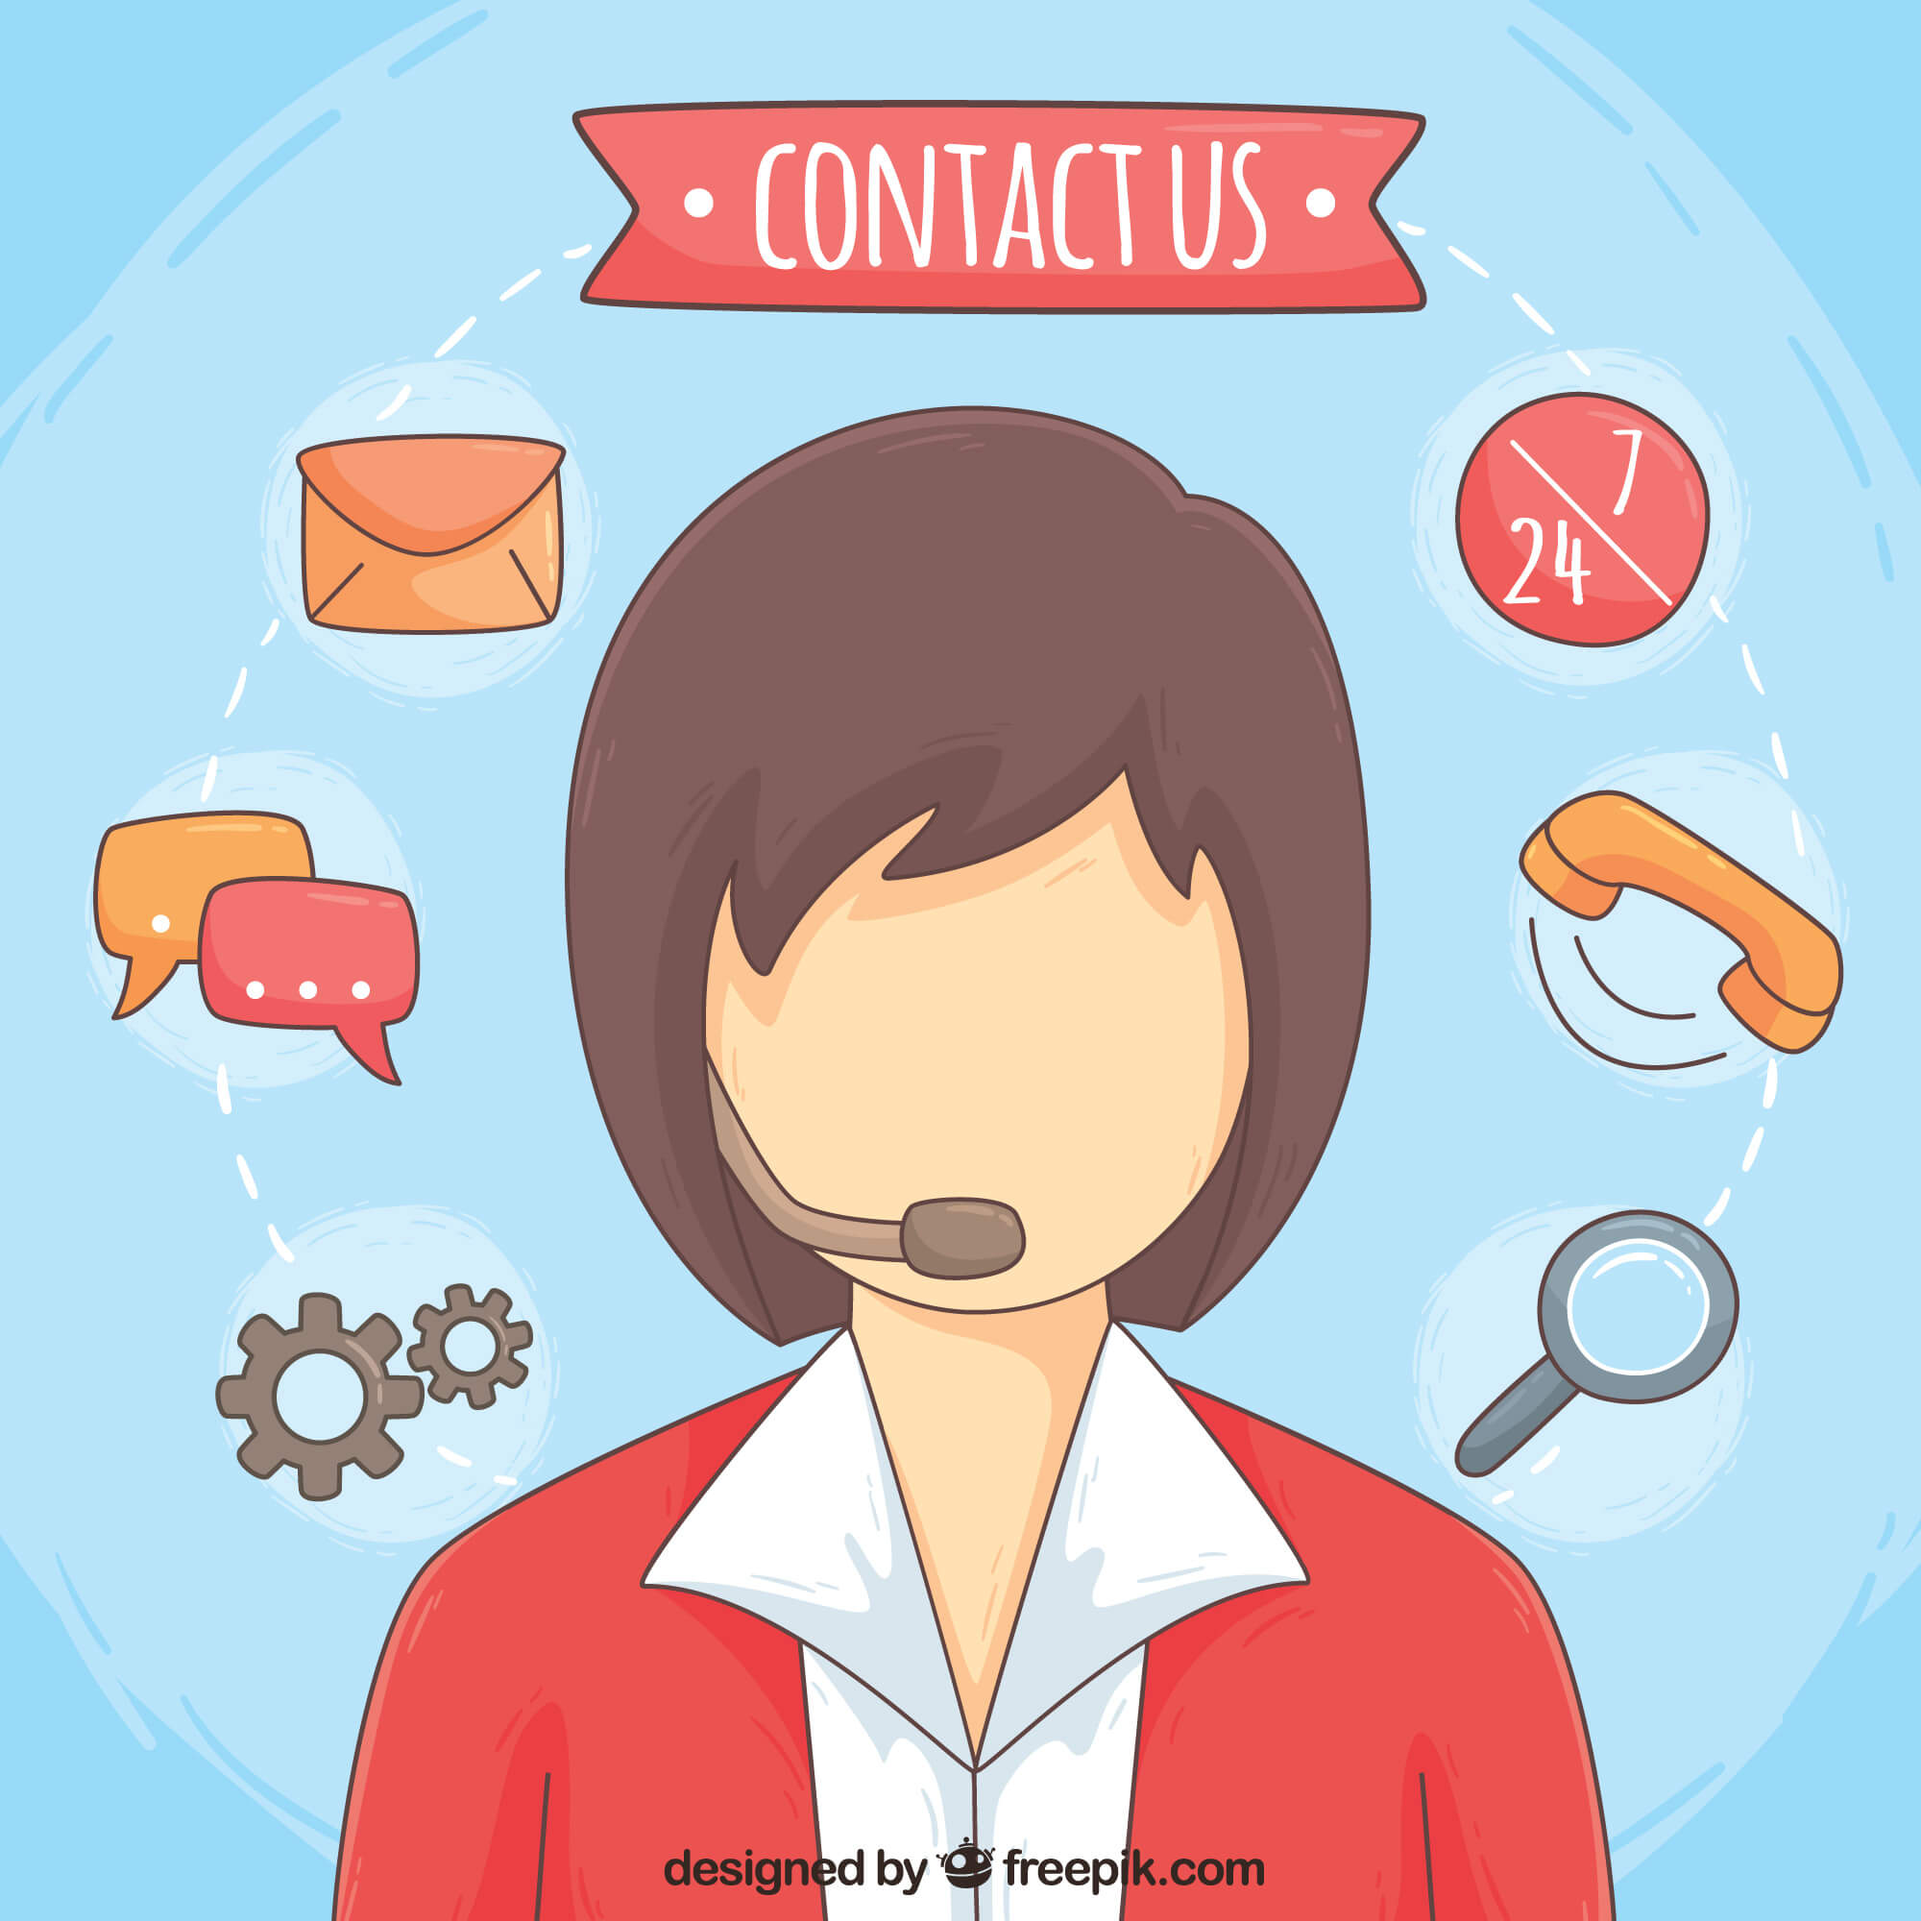
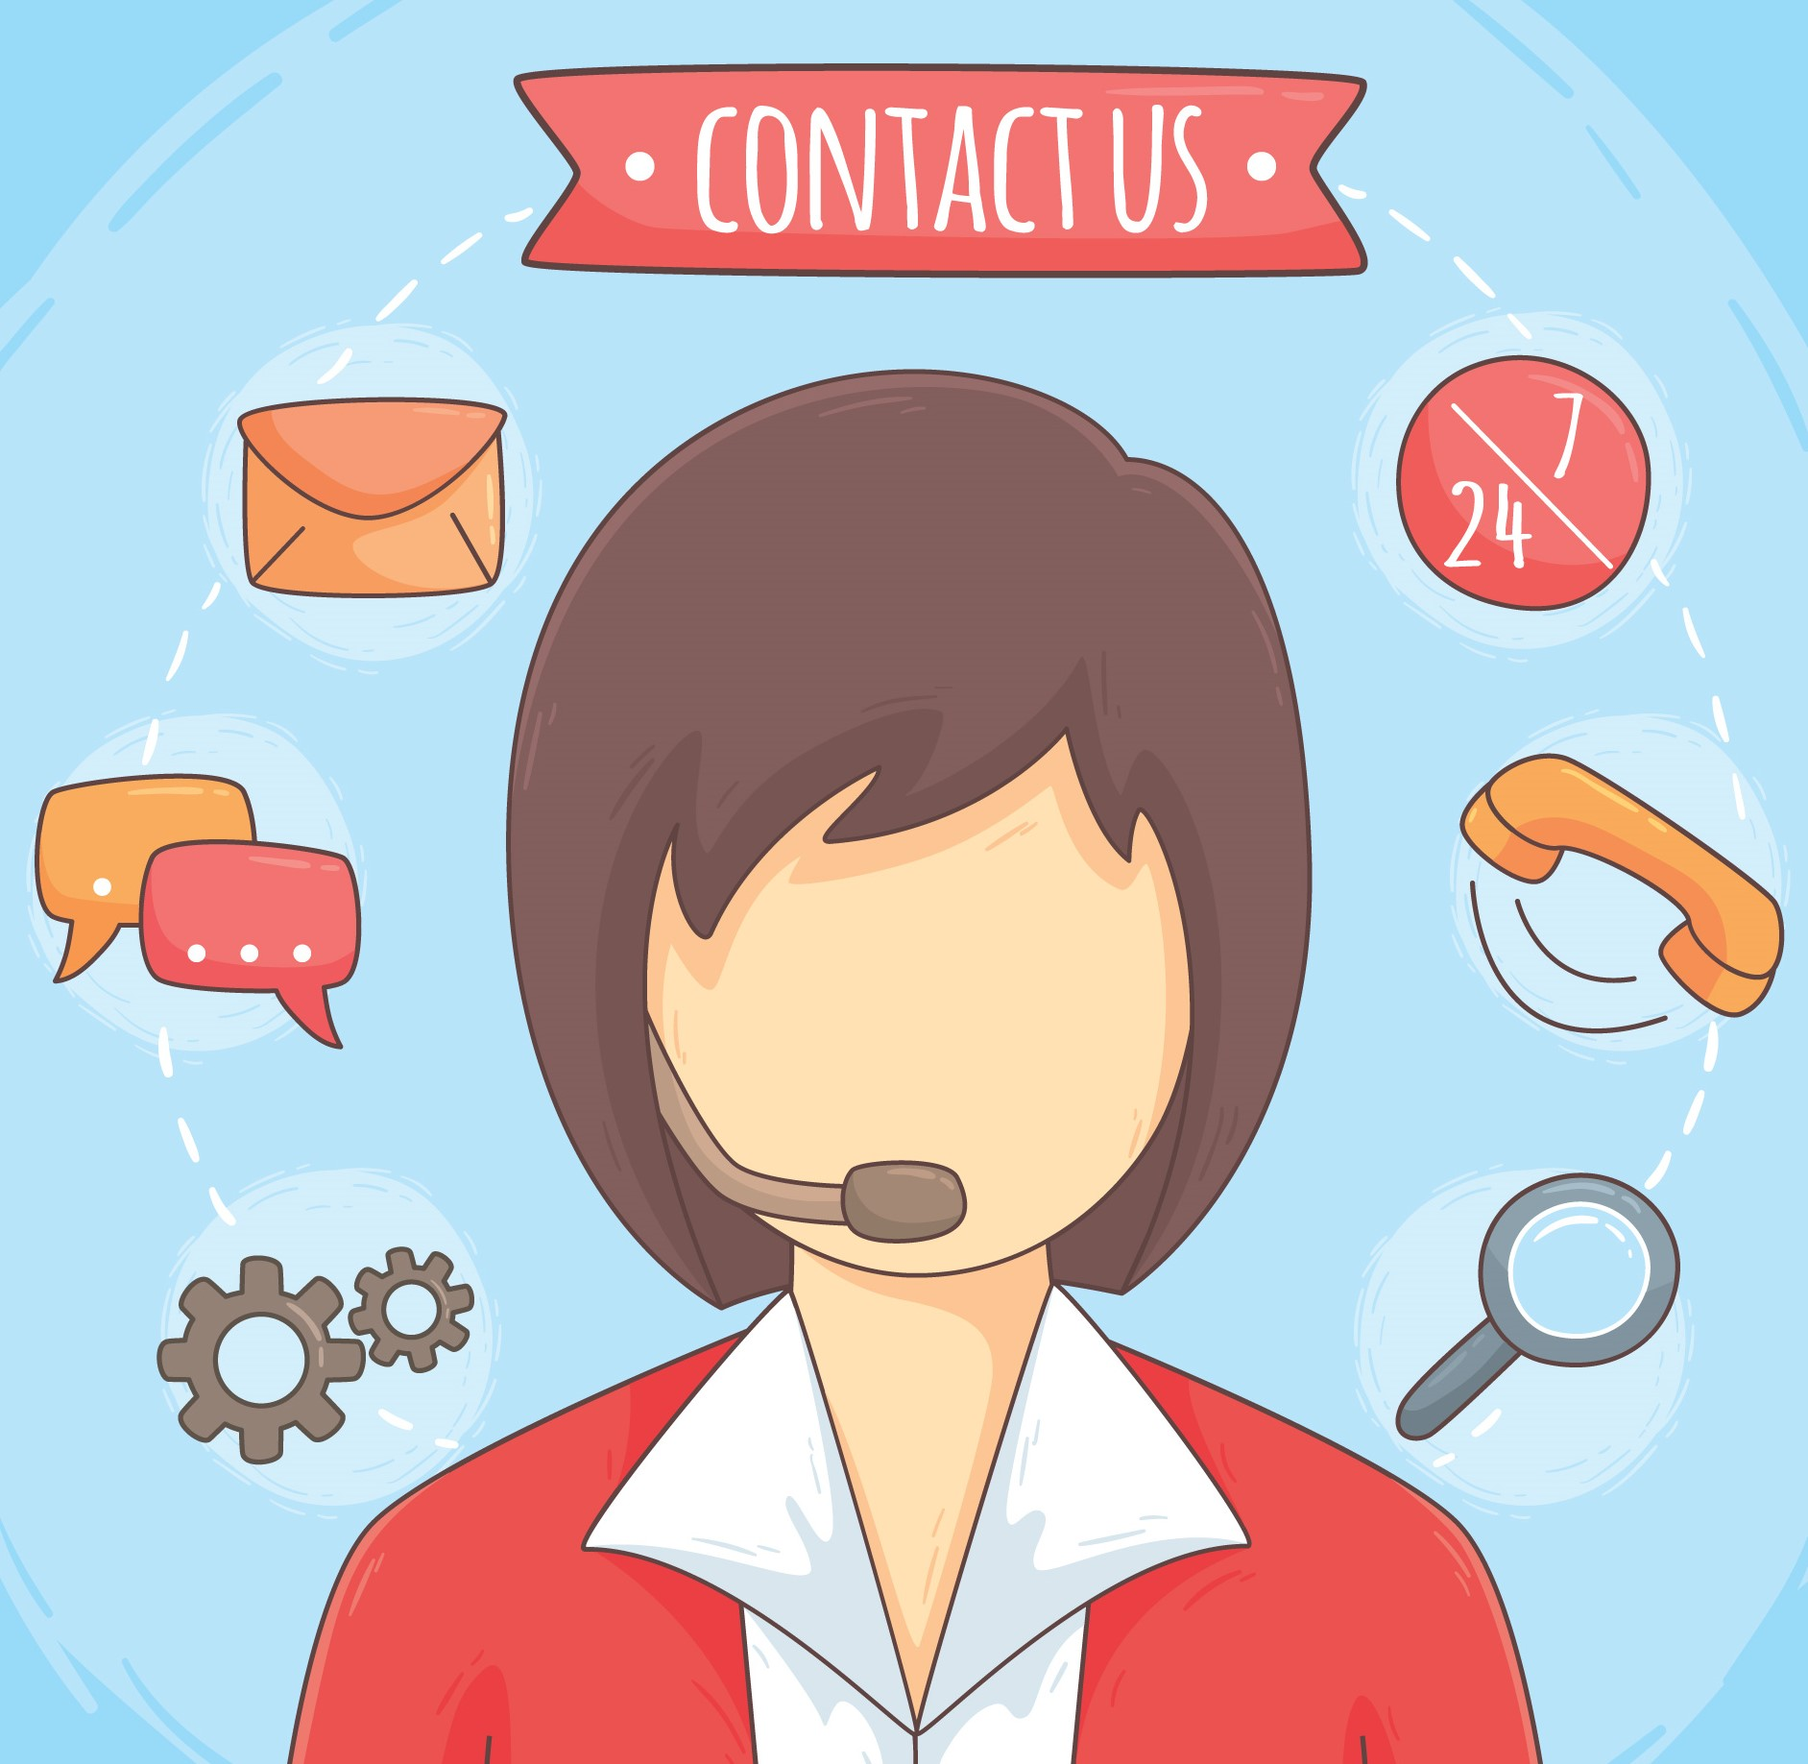
contact done

diff --git a/src/components/Home/Contact/Contact.js b/src/components/Home/Contact/Contact.js
@@ -1,8 +1,9 @@
 import React from 'react';
-import { Col, Container, Row } from 'react-bootstrap';
+import { Col, Container, Image, Row } from 'react-bootstrap';
 import { useForm } from 'react-hook-form';
 import Fade from 'react-reveal/Fade';
 import './Contact.css';
+import ContactUs from '../../../images/contact.jpg';
 
 const Contact = () => {
 
@@ -20,48 +21,43 @@ const Contact = () => {
                         <h6>We want to hear from you!</h6>
                     </article>
 
-                    <article col md={6}>
+                    <article>
                         <form action="submit">
-                            <Row className="input-container">
+                            <Row className="input-container justify-content-center">
 
-                                <Col xs={12}>
+                                <Col md={5}>
                                     <div className="styled-input wide">
                                         <input type="text" {...register("name", { required: true })} required />
                                         <label>Name</label>
                                     </div>
-                                </Col>
 
-                                <Col xs={12}>
                                     <div className="styled-input wide">
                                         <input type="text" {...register("email", { required: true })} required />
                                         <label>Email</label>
                                     </div>
-                                </Col>
 
-                                <Col xs={12}>
                                     <div className="styled-input wide">
                                         <input type="text" {...register("phone", { required: true })} required />
                                         <label>Phone/Mobile</label>
                                     </div>
-                                </Col>
 
-                                <Col xs={12}>
                                     <div className="styled-input wide">
                                         <textarea type="text" {...register("message", { required: true })} required />
                                         <label>Message</label>
                                     </div>
+
+                                    <div>
+                                        <button className="btn-lrg submit-btn btn-main">Send Message</button>
+                                    </div>
                                 </Col>
 
-                                <Col xs={12}>
-                                    <button className="btn-lrg submit-btn btn-main">Send Message</button>
+                                <Col md={6} className="mt-3">
+                                    <Image style={{height: "86%", width: "100%"}} src={ContactUs} fluid />
                                 </Col>
+
 
                             </Row>
                         </form>
-                    </article>
-
-                    <article col md={6}>
-                        <img src="" alt="" />
                     </article>
 
                 </Container>
